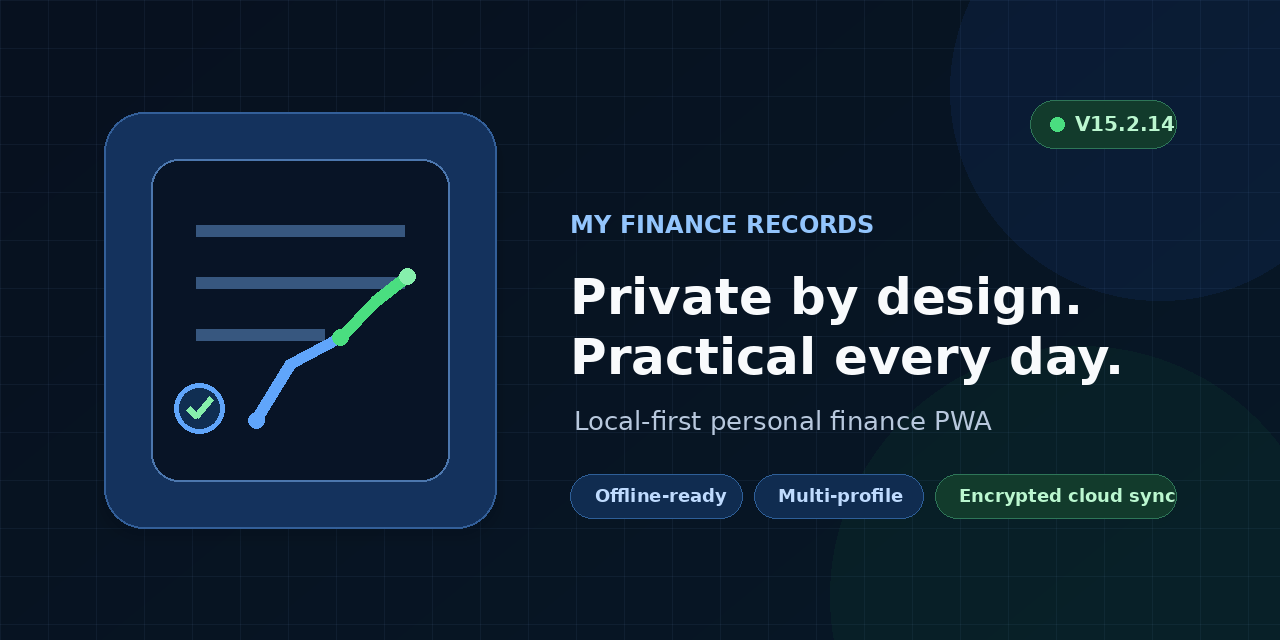
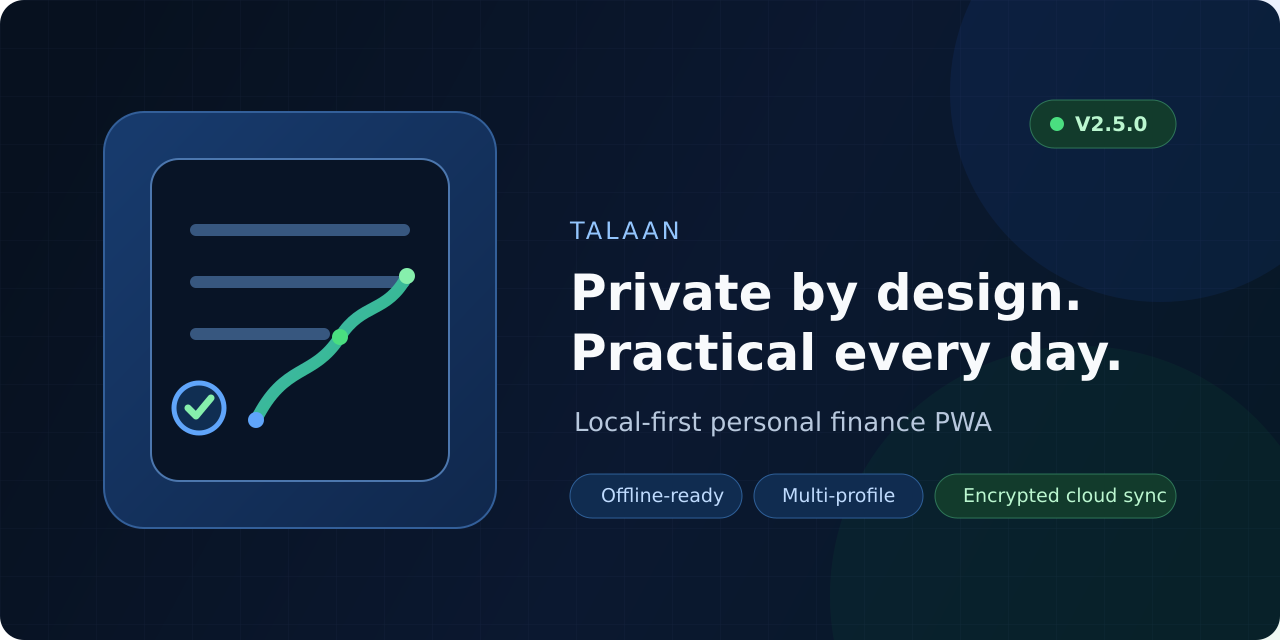
chore: clean repository presentation

diff --git a/assets/js/security-profiles.js b/assets/js/security-profiles.js
@@ -1,6 +1,6 @@
 "use strict";
 
-/* My Finance Records V13.0.18 · Profiles, encryption, active profile rename, device lock, MFA,
+/* Talaan V13.0.18 · Profiles, encryption, active profile rename, device lock, MFA,
    passkeys, household roles, migration assistance, and cloud restore points. */
 (function financeProfileArchitectureBootstrap() {
   const PROFILE_META_KEY = "simple-finance-profiles-v1";
@@ -706,7 +706,7 @@
     overlay.id = "financeDeviceLockOverlay";
     overlay.className = "finance-device-lock-overlay";
     overlay.hidden = true;
-    overlay.innerHTML = `<div class="finance-device-lock-card"><div class="finance-lock-mark" aria-hidden="true"><svg viewBox="0 0 24 24" focusable="false"><rect x="5" y="10" width="14" height="10" rx="2"/><path d="M8 10V7a4 4 0 0 1 8 0v3M12 14v2"/></svg></div><h2>My Finance Records is locked</h2><p>This device lock blocks access to the open app. Browser storage encryption is separate from this screen lock.</p><form id="financeDeviceUnlockForm"><label for="financeDeviceUnlockPassphrase">Device lock passphrase</label><input class="input" id="financeDeviceUnlockPassphrase" type="password" autocomplete="current-password" required><button class="button button-primary" type="submit">Unlock</button><small id="financeDeviceUnlockError" role="alert"></small></form></div>`;
+    overlay.innerHTML = `<div class="finance-device-lock-card"><div class="finance-lock-mark" aria-hidden="true"><svg viewBox="0 0 24 24" focusable="false"><rect x="5" y="10" width="14" height="10" rx="2"/><path d="M8 10V7a4 4 0 0 1 8 0v3M12 14v2"/></svg></div><h2>Talaan is locked</h2><p>This device lock blocks access to the open app. Browser storage encryption is separate from this screen lock.</p><form id="financeDeviceUnlockForm"><label for="financeDeviceUnlockPassphrase">Device lock passphrase</label><input class="input" id="financeDeviceUnlockPassphrase" type="password" autocomplete="current-password" required><button class="button button-primary" type="submit">Unlock</button><small id="financeDeviceUnlockError" role="alert"></small></form></div>`;
     document.body.appendChild(overlay);
     overlay.querySelector("form").addEventListener("submit", async event => {
       event.preventDefault();

diff --git a/assets/js/reports-insights.js b/assets/js/reports-insights.js
@@ -1,6 +1,6 @@
 "use strict";
 
-/* My Finance Records V12.23.0 · reports and financial insights.
+/* Talaan V12.23.0 · reports and financial insights.
    All insights are derived locally from existing finance records, ledger history,
    saved monthly reports, budget plans, and project payments. */
 (function reportsInsightsBootstrap() {
@@ -501,7 +501,7 @@
 
   function exportInsights(metrics=rangeMetrics(filterState,selectedMonth())) {
     const rows=[
-      ["My Finance Records","Reports & Financial Insights"],
+      ["Talaan","Reports & Financial Insights"],
       ["Generated",metrics.generatedAt],["Start date",metrics.range.startDate],["End date",metrics.range.endDate],["Account filter",metrics.range.account||"All accounts"],["Expense category filter",metrics.range.category||"All categories"],[],
       ["SUMMARY"],["Total income",metrics.totalIncome],["Actual spending",metrics.totalExpenses],["Net cash flow",metrics.netCashFlow],["Planned expenses",metrics.totalPlannedExpenses],["Budget plan",metrics.totalBudget],["Savings start",metrics.savingsStart],["Savings end",metrics.savingsEnd],["Savings change",metrics.savingsChange],["Project income",metrics.projectIncome],["Paid Project Costs",metrics.projectCosts],["Project margin",metrics.projectMargin],["Gym visits",metrics.gymVisits],["Gym cost",metrics.gymCost],["Gym cost per visit",metrics.gymCostPerVisit],[],
       ["MONTHLY TREND"],["Month","Income","Actual spending","Net cash flow","Budget plan","Planned expenses","Account balance","Savings","Electric","Water","Gym visits","Gym cost","Project income","Project costs","Project margin"],

diff --git a/assets/js/projects-calendar.js b/assets/js/projects-calendar.js
@@ -1,6 +1,6 @@
 "use strict";
 
-/* My Finance Records V14.0.12 · Project Agenda
+/* Talaan V14.0.12 · Project Agenda
    Adds meeting, presentation, site-visit, deadline, and other project events.
    Agenda entries are stored separately from finance records so schedule changes never
    alter account balances, expenses, payments, or project financial values. */
@@ -464,7 +464,7 @@
       "END:VALARM"
     ];
     const lines = [
-      "BEGIN:VCALENDAR", "VERSION:2.0", "PRODID:-//My Finance Records//Projects Calendar//EN",
+      "BEGIN:VCALENDAR", "VERSION:2.0", "PRODID:-//Talaan//Projects Calendar//EN",
       "CALSCALE:GREGORIAN", "METHOD:PUBLISH", "BEGIN:VEVENT",
       `UID:${icsEscape(event.id)}@my-finance-records.local`,
       `DTSTAMP:${new Date().toISOString().replace(/[-:]/g, "").replace(/\.\d{3}Z$/, "Z")}`,

diff --git a/docs/setup/CLOUD_SYNC_SETUP.md b/docs/setup/CLOUD_SYNC_SETUP.md
@@ -98,7 +98,7 @@ Passkeys are experimental. They require supported Supabase project configuration
 For **Forgot password?** to return to the hosted PWA, add the deployed HTTPS app URL to your Supabase project:
 
 1. Open **Supabase Dashboard → Authentication → URL Configuration**.
-2. Under **Redirect URLs**, add the exact hosted My Finance Records URL you use in Brave/Chrome/Safari.
+2. Under **Redirect URLs**, add the exact hosted Talaan URL you use in Brave/Chrome/Safari.
 3. Keep the app hosted over HTTPS. A local `file://` copy cannot receive the secure password-recovery redirect.
 
 The app intentionally does not reveal whether an email address is registered when a reset is requested.
@@ -107,8 +107,8 @@ The app intentionally does not reveal whether an email address is registered whe
 
 In **Supabase → Authentication → URL Configuration**:
 
-1. Set the production Site URL to `https://nyxdcz.github.io/my-finance-record/`.
-2. Add `https://nyxdcz.github.io/my-finance-record/index.html?auth=recovery` to **Redirect URLs**. You may also keep the root GitHub Pages URL as an allowed redirect.
+1. Set the production Site URL to `https://nyxdcz.github.io/talaan/`.
+2. Add `https://nyxdcz.github.io/talaan/index.html?auth=recovery` to **Redirect URLs**. You may also keep the root GitHub Pages URL as an allowed redirect.
 3. The app sends reset requests with `redirectTo` set to the `?auth=recovery` route. Failed links are returned with Supabase error details in the URL fragment and V13.0.16 shows them inside Sync & Backup.
 
 For the optional recovery-code fallback, edit **Authentication → Email Templates → Reset Password / Recovery** and include the one-time code variable `{{ .Token }}` somewhere the user can read it. The app verifies that code with recovery OTP verification before showing the new-password form. Keep the normal reset link in the template as well.

diff --git a/README.md b/README.md
@@ -4,7 +4,7 @@
 
 **A local-first personal and household finance PWA built for privacy, resilience, and everyday use.**
 
-[![Quality checks](https://github.com/nyxdcz/my-finance-record/actions/workflows/quality-pages.yml/badge.svg?branch=main)](https://github.com/nyxdcz/my-finance-record/actions/workflows/quality-pages.yml)
+[![Quality checks](https://github.com/nyxdcz/talaan/actions/workflows/quality-pages.yml/badge.svg?branch=main)](https://github.com/nyxdcz/talaan/actions/workflows/quality-pages.yml)
 ![Version](https://img.shields.io/badge/version-V2.5.0-2563eb)
 ![PWA](https://img.shields.io/badge/PWA-offline--ready-16a34a)
 ![Node](https://img.shields.io/badge/Node.js-22%2B-339933?logo=nodedotjs&logoColor=white)
@@ -45,8 +45,8 @@ Current release notes are maintained in [`CHANGELOG.md`](CHANGELOG.md).
 Requirements: Node.js **22 or newer** and npm.
 
 ```bash
-git clone https://github.com/nyxdcz/my-finance-record.git
-cd my-finance-record
+git clone https://github.com/nyxdcz/talaan.git
+cd talaan
 npm ci --ignore-scripts --no-audit --no-fund
 npm run dev
 ```

diff --git a/docs/architecture/README.md b/docs/architecture/README.md
@@ -1,6 +1,6 @@
 # Repository Architecture
 
-This document defines the target organization for My Finance Records and the rules for reaching it without breaking installed PWA clients or finance/sync compatibility.
+This document defines the target organization for Talaan and the rules for reaching it without breaking installed PWA clients or finance/sync compatibility.
 
 ## Goals
 
